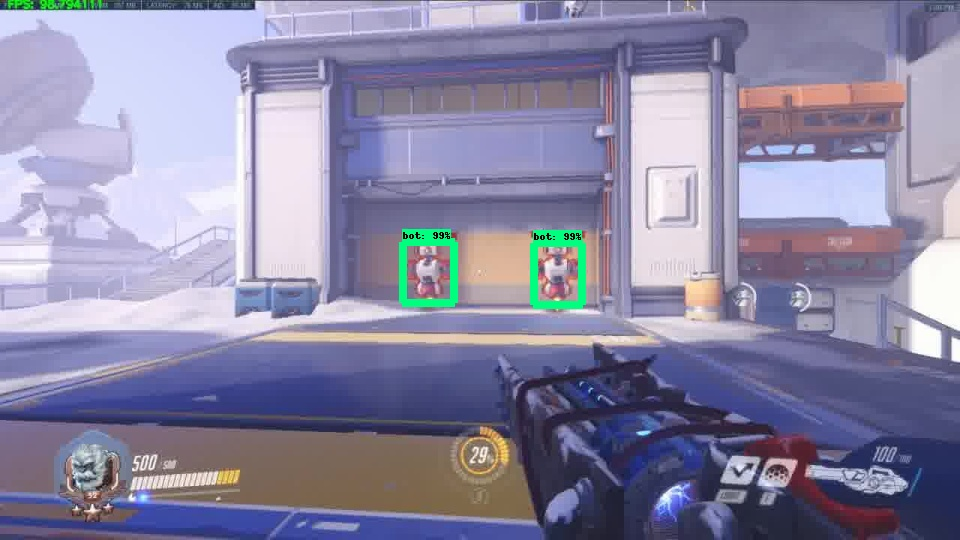
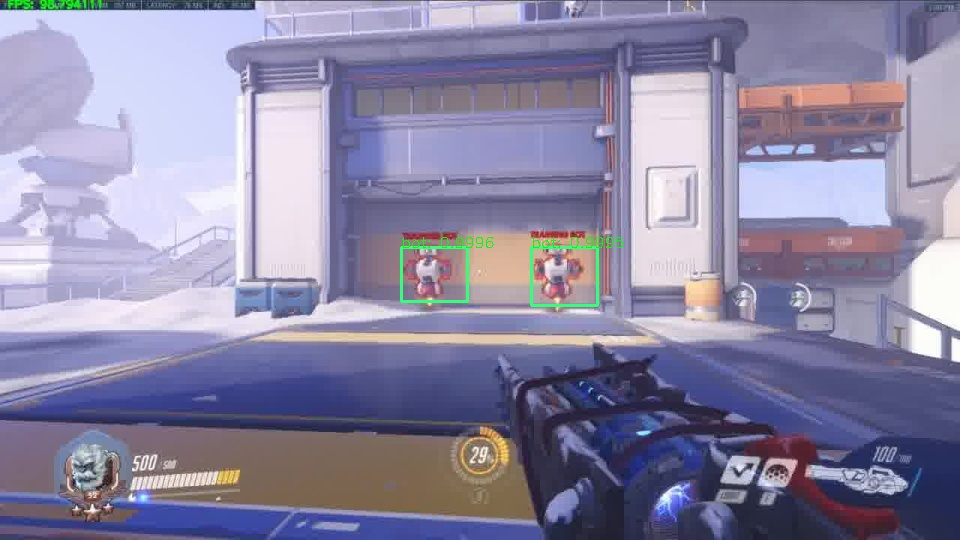
Found a way how to get coordinates from tensorflow in opencv

Changed region(s): [[0.4062, 0.4148, 0.6562, 0.5926]]

diff --git a/Object_detection_image.py b/Object_detection_image.py
@@ -95,6 +95,7 @@ num_detections = detection_graph.get_tensor_by_name('num_detections:0')
 # expand image dimensions to have shape: [1, None, None, 3]
 # i.e. a single-column array, where each item in the column has the pixel RGB value
 image = cv2.imread(PATH_TO_IMAGE)
+'''
 image_expanded = np.expand_dims(image, axis=0)
 
 # Perform the actual detection by running the model with the image as input
@@ -125,6 +126,43 @@ print(len(classes), len(np.squeeze(classes)))
 # print(len(boxes), len(scores), len(classes), len(num))
 # for i in boxes[0]:
     # print(i)
+'''
+rows = image.shape[0]
+cols = image.shape[1]
+inp = cv2.resize(image, (300, 300))
+inp = inp[:, :, [2, 1, 0]]  # BGR2RGB
+
+# Run the model
+out = sess.run([sess.graph.get_tensor_by_name('num_detections:0'),
+                sess.graph.get_tensor_by_name('detection_scores:0'),
+                sess.graph.get_tensor_by_name('detection_boxes:0'),
+                sess.graph.get_tensor_by_name('detection_classes:0')],
+               feed_dict={'image_tensor:0': inp.reshape(1, inp.shape[0], inp.shape[1], 3)})
+
+# Visualize detected bounding boxes.
+num_detections = int(out[0][0])
+for i in range(num_detections):
+    classId = int(out[3][0][i])
+    score = float(out[1][0][i])
+    bbox = [float(v) for v in out[2][0][i]]
+    if score > 0.3:
+        x = bbox[1] * cols
+        y = bbox[0] * rows
+        right = bbox[3] * cols
+        bottom = bbox[2] * rows
+        print("X {}, y {}, right {}, bottom {}".format(x, y, right, bottom))
+        names = list(category_index.values())
+        name = 0
+        for i in names:
+            if i['id'] == classId:
+                name = i['name']
+                break
+        if name == 0:
+            name = 'not Found'
+        print(name)
+        cv2.rectangle(image, (int(x), int(y)), (int(right), int(bottom)), (125, 255, 51), thickness=2)
+        text = "{}: {}".format(name, round(score, 4))
+        cv2.putText(image, text, (int(x), int(y)), cv2.FONT_HERSHEY_SIMPLEX, 0.5, (0, 255, 0), 1)
 # All the results have been drawn on image. Now display the image.
 cv2.imshow('Object detector', image)
 
